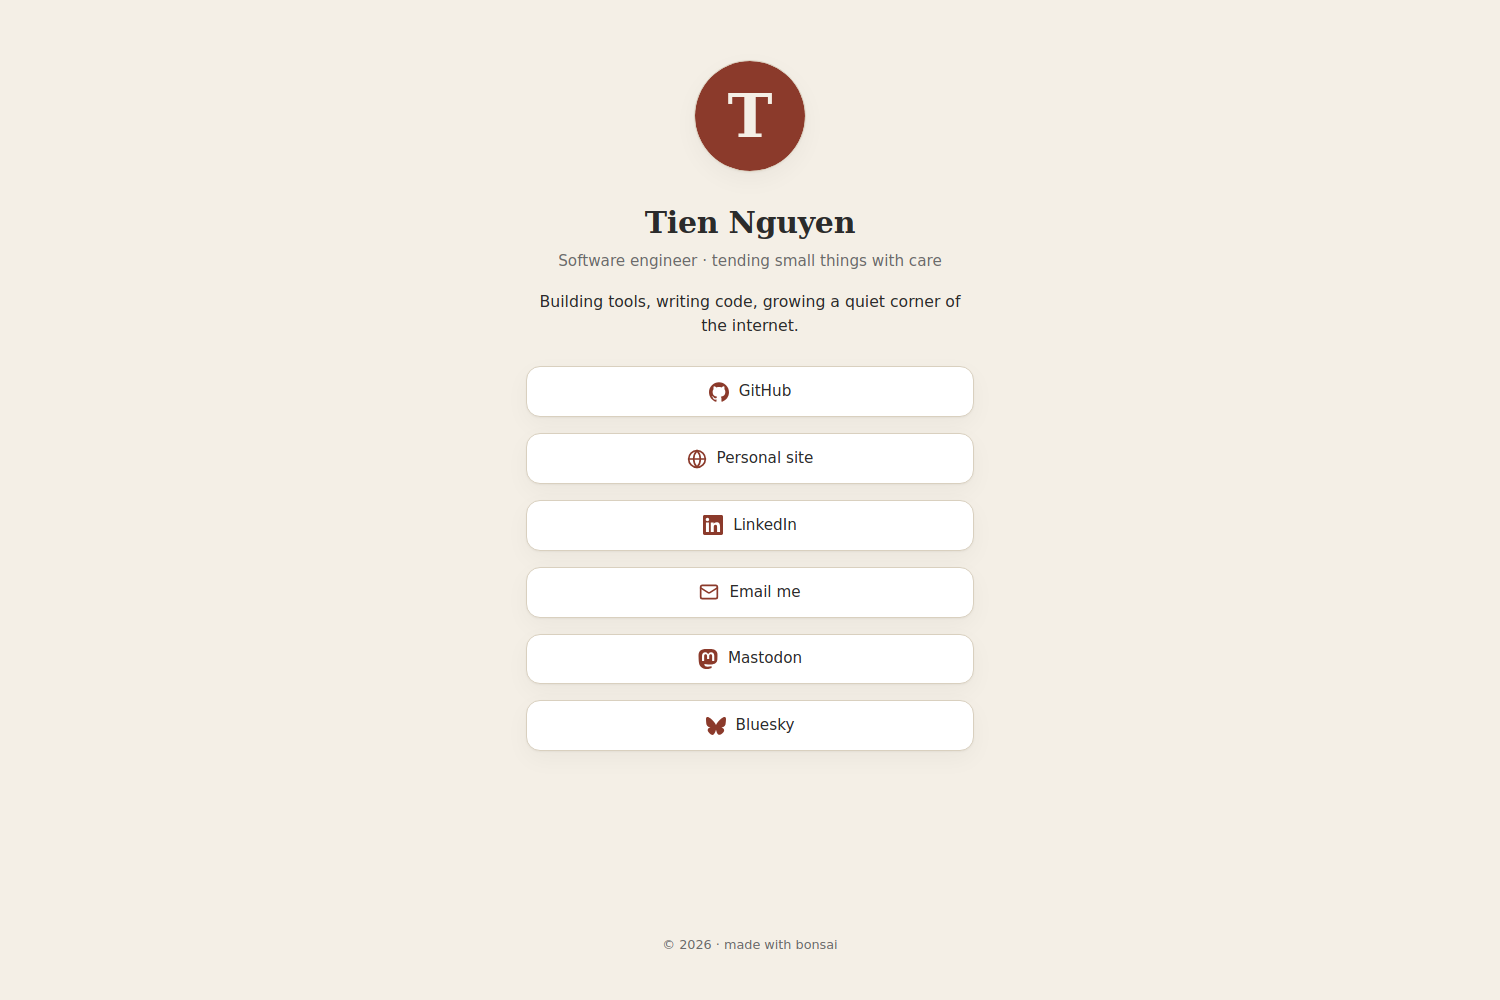
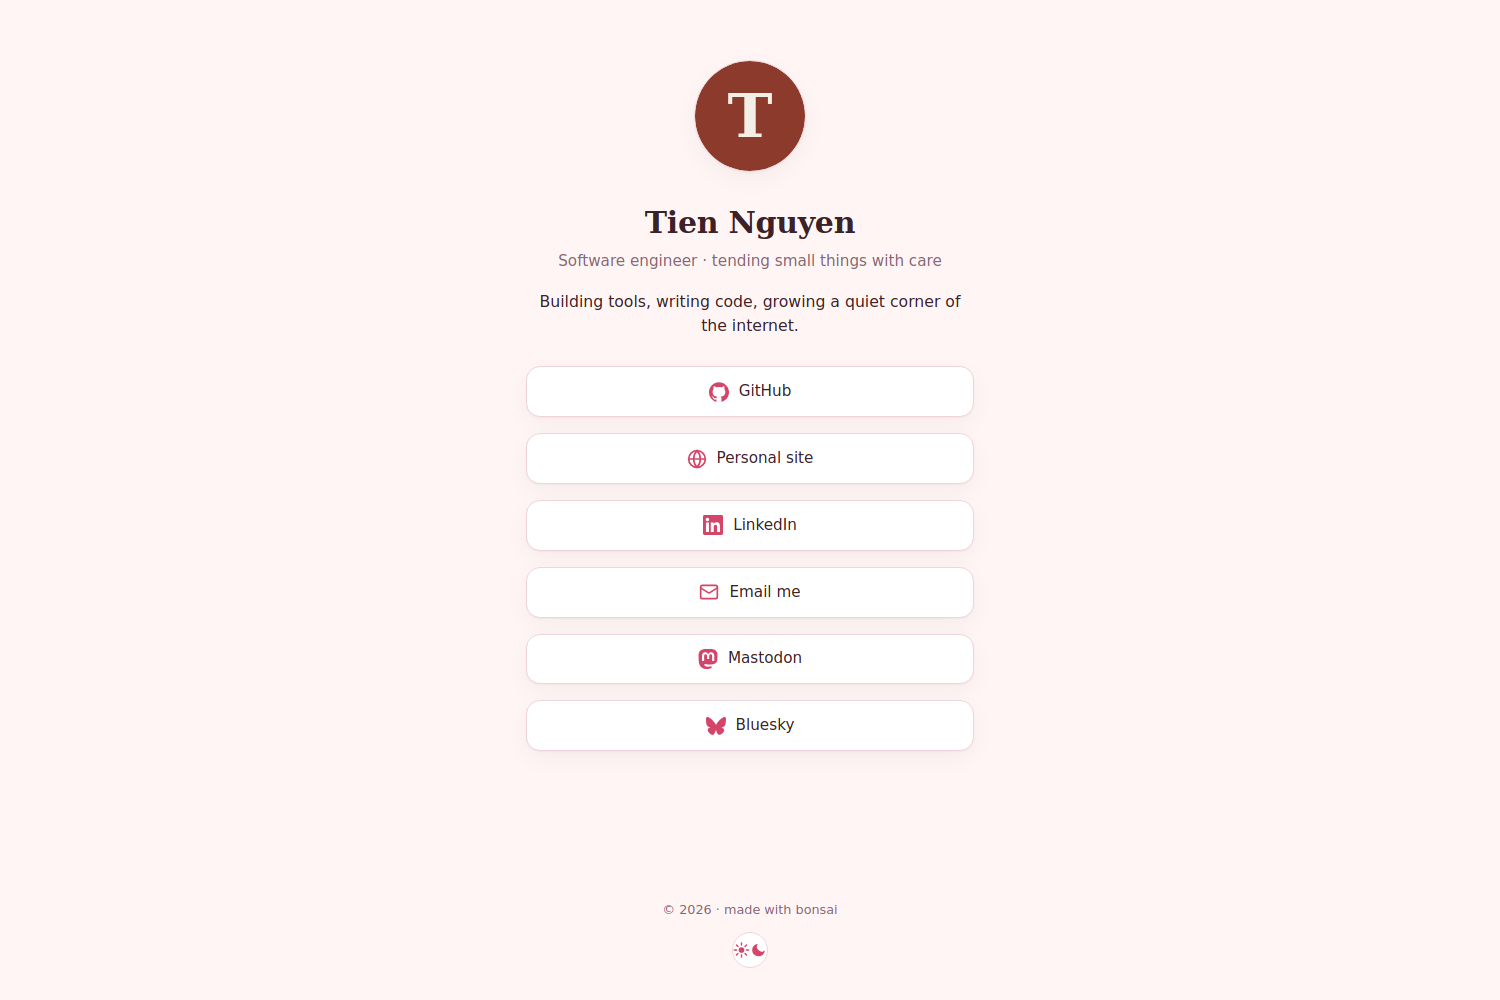
fix: theme-toggle CSS specificity + demo uses initials fallback
- .theme-toggle svg { display: block } was beating per-class hide rules
  due to higher specificity. Scope the per-class rules under
  .theme-toggle .theme-toggle__sun/moon so they win.
- Remove avatar from exampleSite so the initials fallback renders, which
  inherits the active palette's accent color (sakura -> pink). The static
  avatar.svg was hardcoded vermilion and looked off in non-bonsai
  palettes.

diff --git a/themes/bonsai/static/css/bonsai.css b/themes/bonsai/static/css/bonsai.css
@@ -310,22 +310,21 @@ body {
   outline-offset: 2px;
 }
 
-.theme-toggle svg { display: block; }
-
 /* Show moon in light, sun in dark.
-   The button shows the icon for the mode you'll switch TO. */
-.theme-toggle__sun { display: none; }
-.theme-toggle__moon { display: block; }
+   The button shows the icon for the mode you'll switch TO.
+   Per-class rules avoid the specificity battle vs `.theme-toggle svg`. */
+.theme-toggle .theme-toggle__sun { display: none; }
+.theme-toggle .theme-toggle__moon { display: block; }
 
 @media (prefers-color-scheme: dark) {
-  html:not([data-theme="light"]) .theme-toggle__sun { display: block; }
-  html:not([data-theme="light"]) .theme-toggle__moon { display: none; }
+  html:not([data-theme="light"]) .theme-toggle .theme-toggle__sun { display: block; }
+  html:not([data-theme="light"]) .theme-toggle .theme-toggle__moon { display: none; }
 }
 
-[data-theme="dark"] .theme-toggle__sun { display: block; }
-[data-theme="dark"] .theme-toggle__moon { display: none; }
-[data-theme="light"] .theme-toggle__sun { display: none; }
-[data-theme="light"] .theme-toggle__moon { display: block; }
+[data-theme="dark"] .theme-toggle .theme-toggle__sun { display: block; }
+[data-theme="dark"] .theme-toggle .theme-toggle__moon { display: none; }
+[data-theme="light"] .theme-toggle .theme-toggle__sun { display: none; }
+[data-theme="light"] .theme-toggle .theme-toggle__moon { display: block; }
 
 /* ============================================================
    Themes gallery (exampleSite/themes/) — 4 mini bio cards
